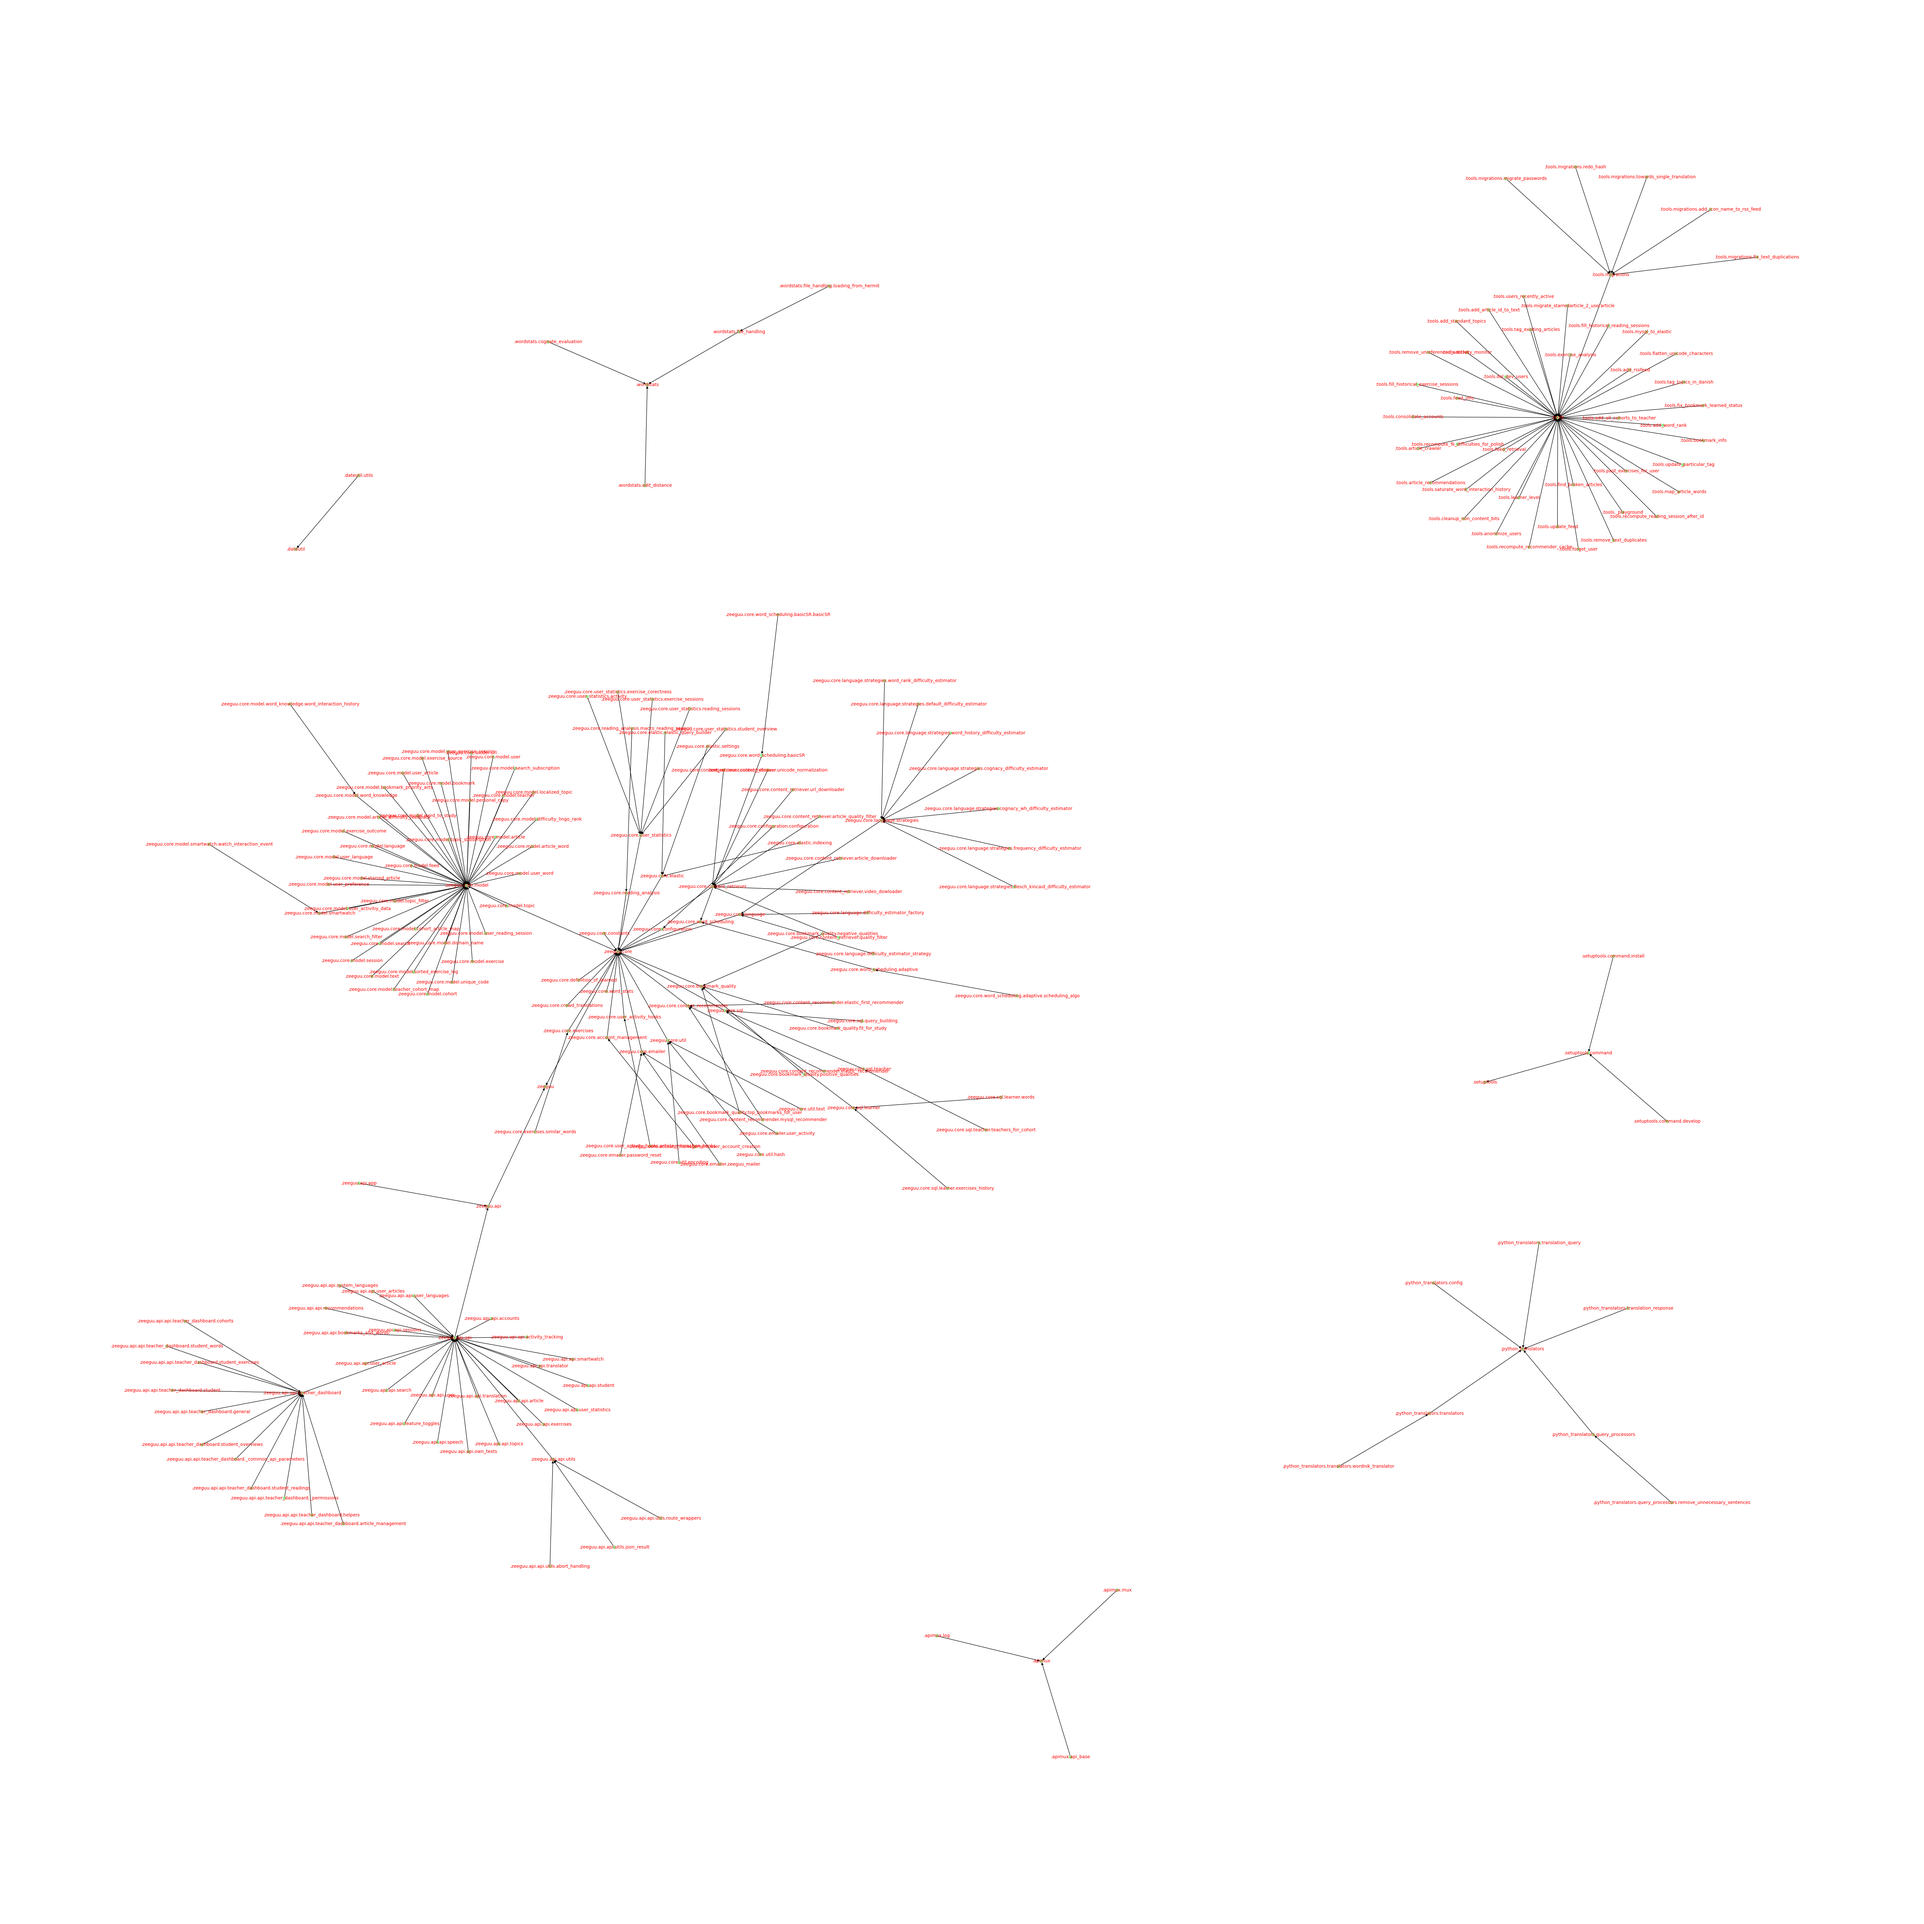
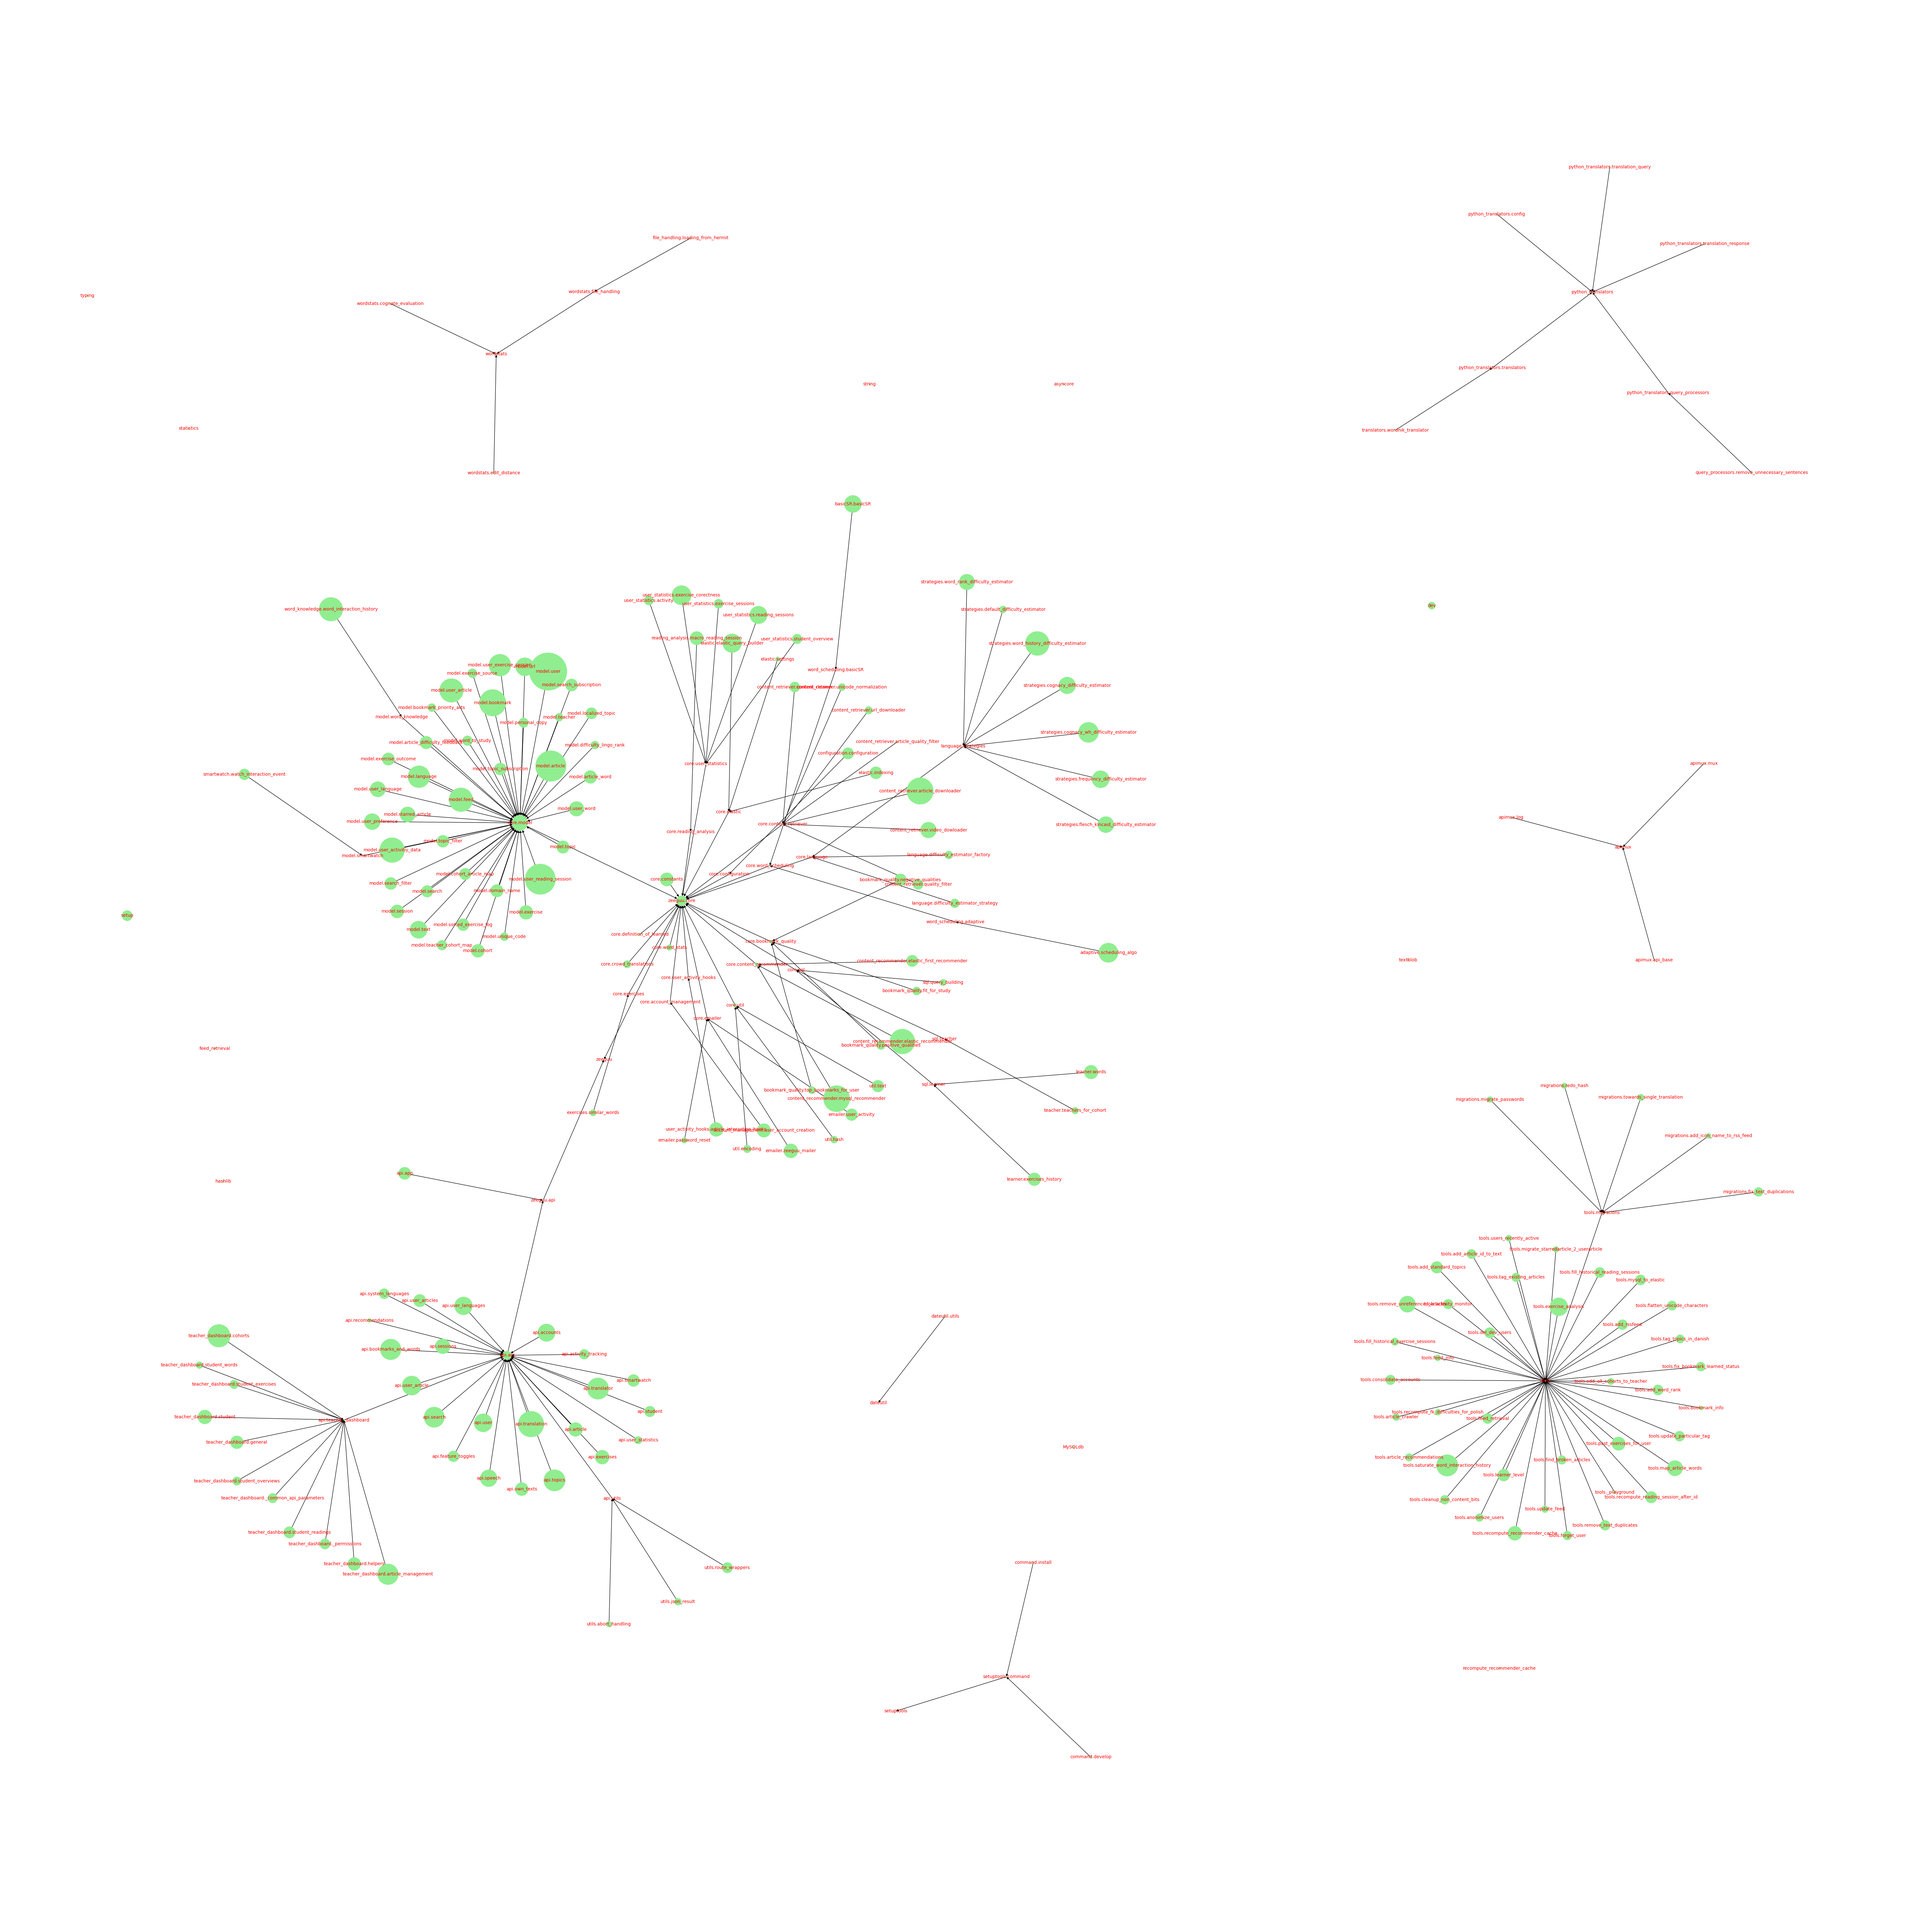
Added node sizes

diff --git a/main.py b/main.py
@@ -183,7 +183,8 @@ def draw_graph_with_labels(G, figsize=(10, 10), prog='twopi', name="test4.png"):
     plt.figure(figsize=figsize)
 
     sizes = nx.get_node_attributes(G, "size")
-
+    print(len(G.nodes()))
+    print(len(sizes))
     pos = graphviz_layout(G, prog=prog)
 
     nx.draw(G, pos=pos,
@@ -204,12 +205,13 @@ processed_files = get_imports_for_files(files, dependencies_to_ignore)
 DG = dependencies_digraph(processed_files, [".."])
 DGWE = remove_singleEdges(DG)
 
-
 # draw_graph_with_labels(DGWE,  (60, 60), 'neato', "test1.png")
 
 new_list = get_imports_for_files_no_smaller_files(files, dependencies_to_ignore)
-DGW = dependencies_digraph(new_list,[])
+DGW = dependencies_digraph(new_list, [])
 DGWEe = remove_singleEdges(DGW)
+
+
 # draw_graph_with_labels(DGW,  (60, 60), 'neato', "test2.png")
 
 def has_depth(module_name, currentDepth):
@@ -227,17 +229,67 @@ def getLast(module_name):
 
 def get_level_module(module_name, depth):
     if "." in module_name:
+        skip = 0
+        if depth > 1:
+            skip = depth-1
+
         components = module_name.split(".")
-        result = ""
-        for count, ele in enumerate(components):
+        result = components[skip]
+        newComp = components[skip+1:]
+        if len(newComp) == 0 or depth == 0:
+            return result
+        else:
+            count = 1 + skip
+            for ele in newComp:
 
-            result = result + "." + ele
+                result = result + "." + ele
 
-            if count == depth:
-                return result
+                if count == depth:
+                    return result
+                count = count + 1
 
     else:
         return module_name
+
+def get_level_module_no_skip(module_name, depth):
+    if "." in module_name:
+        components = module_name.split(".")
+        result = components[0]
+        newComp = components[1:]
+        if len(newComp) == 0 or depth == 0:
+            return result
+        else:
+            count = 1
+            for ele in newComp:
+
+                result = result + "." + ele
+
+                if count == depth:
+                    return result
+                count = count + 1
+
+    else:
+        return module_name
+
+def calculate_how_many_connections(G, currentItem):
+    sizes = nx.get_node_attributes(G, "size")
+    mentions = 1
+    for key, val in sizes.items():
+        if currentItem in key and currentItem != key:
+            mentions = mentions + 100
+
+    return mentions
+
+
+def calculate_total_amount_of_code(G, currentItem):
+    sizes = nx.get_node_attributes(G, "size")
+    totalCode = 1
+    for key, val in sizes.items():
+        if key == currentItem:
+            print(key, currentItem)
+            totalCode = totalCode + val
+
+    return totalCode
 
 
 def abstraceted_to_top_level(G):
@@ -247,8 +299,10 @@ def abstraceted_to_top_level(G):
     while len(newcopy) > 0:
         for item in newcopy:
             if has_depth(item, x):
-                if get_level_module(item, x) not in G.nodes and get_level_module(item, x) != "":
-                    aG.add_node(get_level_module(item, x), size=40)
+                print(item, x)
+                print(get_level_module(item, x))
+                if get_level_module(item, x) not in aG.nodes and get_level_module(item, x) != "":
+                    aG.add_node(get_level_module(item, x), size=calculate_total_amount_of_code(G,get_level_module_no_skip(item, x)))
                     if x > 0 and get_level_module(item, x - 1) != "":
                         source = get_level_module(item, x - 1)
                         destination = get_level_module(item, x)
